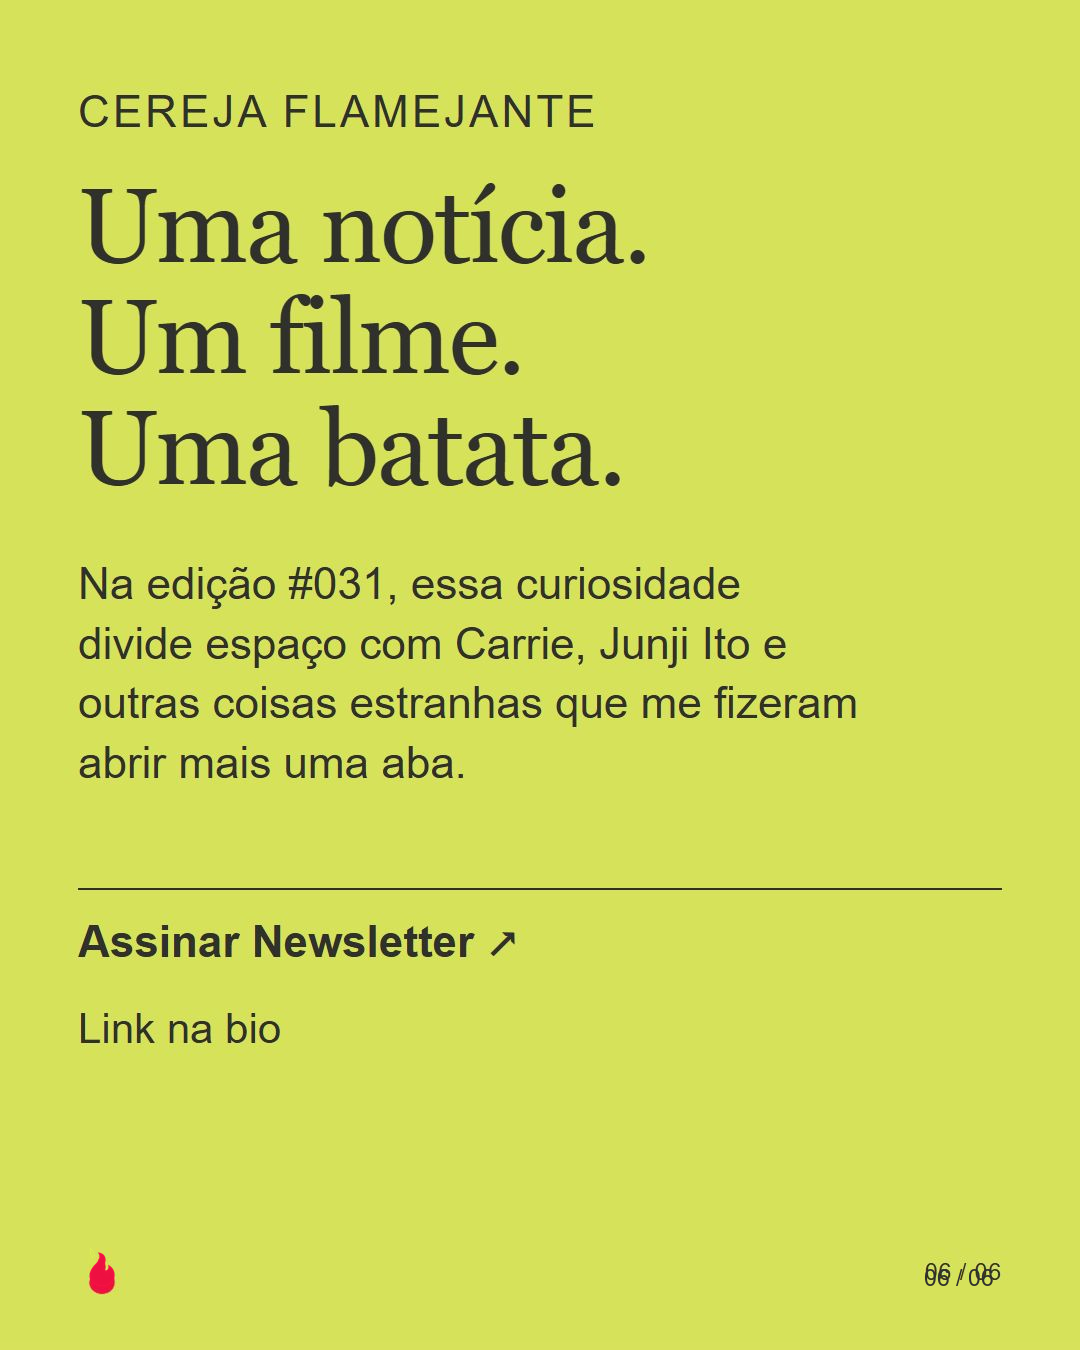
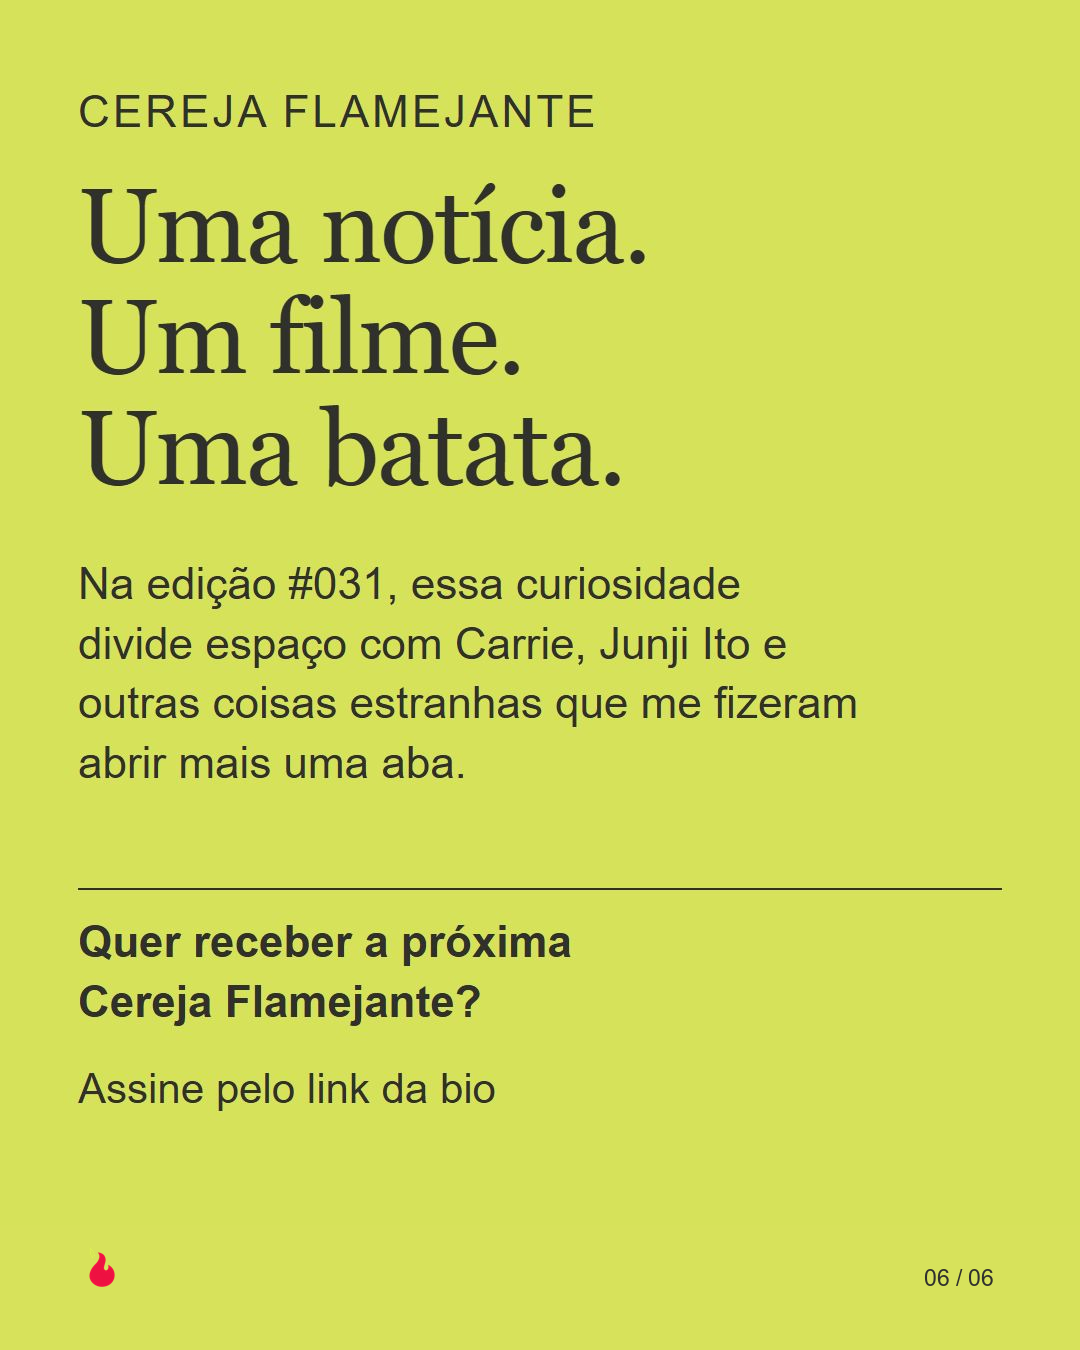
Use an empathetic editorial invitation in the Instagram CTA

Changed region(s): [[0.0611, 0.6844, 0.55, 0.84], [0.8556, 0.9333, 0.9167, 0.9644], [0.0917, 0.9333, 0.1222, 0.9644]]

diff --git a/growth/cycles/031-mars/index.html b/growth/cycles/031-mars/index.html
@@ -1,1 +1,1 @@
-<!doctype html><html lang="pt-BR"><meta charset="utf-8"><meta name="viewport" content="width=device-width, initial-scale=1"><title>Cereja Flamejante · Marte e batatas</title><link rel="stylesheet" href="style.css"><main class="preview"><h1>Água em Marte! E as batatas?</h1><p>Experimento #031 · seis páginas em 1080 × 1350 · aguardando revisão de Kell.</p><p><a href="packet.md">Briefing, legenda, fontes e revisão</a> · <a href="alt-text.json">Textos alternativos</a></p><div class="grid"><a href="slide-01.png"><img src="slide-01.png" alt="Colagem em papel creme: uma batata brotando diante de Marte, com linha vermelha e recortes verdes. Texto: Água em Marte! E as batatas?"></a><a href="slide-02.png"><img src="slide-02.png" alt="A pista estava na rocha. O Perseverance encontrou em Jezero rochas formadas de magma com marcas de contato com água. Diagrama conceitual mostra o laser do SuperCam atingindo uma rocha. Mais de 185 pontos foram analisados."></a><a href="slide-03.png"><img src="slide-03.png" alt="A água passou por ali pelo menos três vezes: água subterrânea rica em CO2 deixou carbonatos; outro contato pode estar ligado ao antigo lago; veios minerais indicam água quente posterior. A ordem foi reconstruída, mas as datas faltam. Não é uma descoberta de água pronta para beber."></a><a href="slide-04.png"><img src="slide-04.png" alt="E a horta de Perdido em Marte? Plantar batatas exige água adequada, luz, nutrientes e ambiente protegido e pressurizado. O material da superfície de Marte tem poucos nutrientes e contém percloratos. A batata não vem com kit de sobrevivência."></a><a href="slide-05.png"><img src="slide-05.png" alt="As batatas já passaram pela NASA. Nos anos 1990, houve testes de hidroponia em ambiente controlado na Terra, usando bandejas com uma fina camada de água e nutrientes. Esquema mostra batatas e solução nutritiva circulando. O trabalho despertou interesse da Frito-Lay. Fonte histórica NASA, 2016."></a><a href="slide-06.png"><img src="slide-06.png" alt="Uma notícia. Um filme. Uma batata. Na edição 31 da Cereja Flamejante, essa curiosidade divide espaço com Carrie, Junji Ito e outras coisas estranhas que me fizeram abrir mais uma aba. Assinar Newsletter, link na bio."></a></div></main></html>
+<!doctype html><html lang="pt-BR"><meta charset="utf-8"><meta name="viewport" content="width=device-width, initial-scale=1"><title>Cereja Flamejante · Marte e batatas</title><link rel="stylesheet" href="style.css"><main class="preview"><h1>Água em Marte! E as batatas?</h1><p>Experimento #031 · seis páginas em 1080 × 1350 · aguardando revisão de Kell.</p><p><a href="packet.md">Briefing, legenda, fontes e revisão</a> · <a href="alt-text.json">Textos alternativos</a></p><div class="grid"><a href="slide-01.png"><img src="slide-01.png" alt="Colagem em papel creme: uma batata brotando diante de Marte, com linha vermelha e recortes verdes. Texto: Água em Marte! E as batatas?"></a><a href="slide-02.png"><img src="slide-02.png" alt="A pista estava na rocha. O Perseverance encontrou em Jezero rochas formadas de magma com marcas de contato com água. Diagrama conceitual mostra o laser do SuperCam atingindo uma rocha. Mais de 185 pontos foram analisados."></a><a href="slide-03.png"><img src="slide-03.png" alt="A água passou por ali pelo menos três vezes: água subterrânea rica em CO2 deixou carbonatos; outro contato pode estar ligado ao antigo lago; veios minerais indicam água quente posterior. A ordem foi reconstruída, mas as datas faltam. Não é uma descoberta de água pronta para beber."></a><a href="slide-04.png"><img src="slide-04.png" alt="E a horta de Perdido em Marte? Plantar batatas exige água adequada, luz, nutrientes e ambiente protegido e pressurizado. O material da superfície de Marte tem poucos nutrientes e contém percloratos. A batata não vem com kit de sobrevivência."></a><a href="slide-05.png"><img src="slide-05.png" alt="As batatas já passaram pela NASA. Nos anos 1990, houve testes de hidroponia em ambiente controlado na Terra, usando bandejas com uma fina camada de água e nutrientes. Esquema mostra batatas e solução nutritiva circulando. O trabalho despertou interesse da Frito-Lay. Fonte histórica NASA, 2016."></a><a href="slide-06.png"><img src="slide-06.png" alt="Uma notícia. Um filme. Uma batata. Na edição 31 da Cereja Flamejante, essa curiosidade divide espaço com Carrie, Junji Ito e outras coisas estranhas que me fizeram abrir mais uma aba. Quer receber a próxima Cereja Flamejante? Assine pelo link da bio."></a></div></main></html>

diff --git a/growth/cycles/031-mars/slide-06.html b/growth/cycles/031-mars/slide-06.html
@@ -1,1 +1,1 @@
-<!doctype html><html lang="pt-BR"><meta charset="utf-8"><title>Marte e batatas · 6</title><link rel="stylesheet" href="style.css"><main class="slide exit"><p class="eyebrow">Cereja Flamejante</p><h2>Uma notícia.<br>Um filme.<br>Uma batata.</h2><p style="max-width:790px;margin-top:50px">Na edição #031, essa curiosidade divide espaço com Carrie, Junji Ito e outras coisas estranhas que me fizeram abrir mais uma aba.</p><div class="line" style="margin-top:95px"><p><b>Assinar Newsletter ↗</b></p><p class="small">Link na bio</p></div><footer class="foot"><img src="assets/flame.png" alt="Cereja Flamejante"><span>06 / 06</span></footer></main></html>
+<!doctype html><html lang="pt-BR"><meta charset="utf-8"><title>Marte e batatas · 6</title><link rel="stylesheet" href="style.css"><main class="slide exit"><p class="eyebrow">Cereja Flamejante</p><h2>Uma notícia.<br>Um filme.<br>Uma batata.</h2><p style="max-width:790px;margin-top:50px">Na edição #031, essa curiosidade divide espaço com Carrie, Junji Ito e outras coisas estranhas que me fizeram abrir mais uma aba.</p><div class="line" style="margin-top:95px"><p><b>Quer receber a próxima<br>Cereja Flamejante?</b></p><p class="small">Assine pelo link da bio</p></div><footer class="foot"><img src="assets/flame.png" alt="Cereja Flamejante"><span>06 / 06</span></footer></main></html>

diff --git a/growth/cycles/031-mars/packet.md b/growth/cycles/031-mars/packet.md
@@ -22,7 +22,7 @@ Já o cultivo de batatas foi testado na Terra, em ambiente controlado, com água
 
 Fontes: NASA, “NASA Discovery Reveals Complex Water Systems on Early Mars” (21/09/2026); NASA, “NASA Plant Researchers Explore Question of Deep-Space Food Crops” (17/02/2016). Links completos no registro de fontes desta peça.
 
-Para receber as próximas curiosidades: Assinar Newsletter, no link da bio. 🍒
+Para receber as próximas curiosidades: Quer receber a próxima Cereja Flamejante? Assine pelo link da bio. 🍒
 
 #CerejaFlamejante #Marte #Ciência #Cinema
 
@@ -72,3 +72,5 @@ Capa: Água em Marte! E as batatas? Segundo slide esclarece que essa água ficou
 Contexto do filme incluído na página 4. Fonte oficial: https://www.20thcenturystudios.com/movies/the-martian . Imagens do filme: pendentes de autorização específica; nenhuma reprodução inserida.
 
 Decisão de formato: carrossel entrega contexto curto e achado; legenda concentra explicação adicional e fontes. Alt text permanece descrição acessível de cada página, não substitui legenda.
+
+Regra de CTA aprovada por Kell: nas peças e legendas, usar convite empático e contextual. Infinitivo reservado ao texto de botão neste projeto. Slide final: Quer receber a próxima Cereja Flamejante? Assine pelo link da bio.
